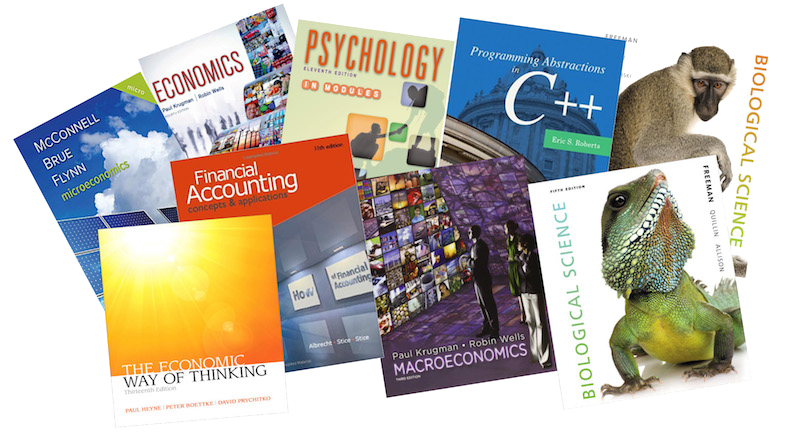
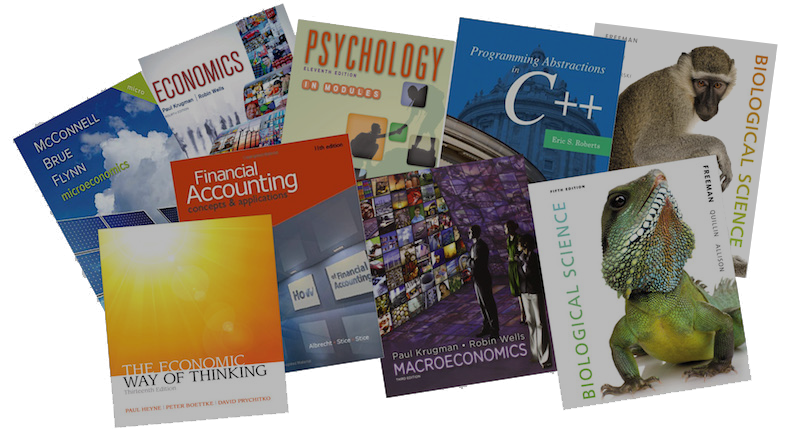
Squashed to one photo

diff --git a/_layouts/default.html b/_layouts/default.html
@@ -3,7 +3,7 @@
 <html>
 	<head>
 		<meta charset="utf-8">
-		<meta name="viewport" content="width=device-width, initial-scale=1">
+		<meta name="viewport" content="width=device-width">
 		<meta name="generator" content="Jekyll v{{ jekyll.version }}">
 
 		<link rel="stylesheet" href="//fonts.googleapis.com/css?family=Quattrocento|Vollkorn:400,400i,700,700i">
@@ -49,8 +49,7 @@
 		<section class="main">
 			{% if page.bookit %}
 			<div class="container discover">
-				<img class="discover-image" src="/uploads/bookit-books-2.png" alt="">
-				<a href="{{ site.baseurl }}/book-it/"><img class="discover-text" src="/uploads/discover-text.png" alt=""></a>
+				<a href="{{ site.baseurl }}/book-it/"><img class="discover-image" src="/uploads/bookit-books-dis.png" alt=""></a>
 			</div>
 			{% endif %}
 			<div class="container">

diff --git a/_site/index.html b/_site/index.html
@@ -3,7 +3,7 @@
 <html>
 	<head>
 		<meta charset="utf-8">
-		<meta name="viewport" content="width=device-width, initial-scale=1">
+		<meta name="viewport" content="width=device-width">
 		<meta name="generator" content="Jekyll v3.3.1">
 
 		<link rel="stylesheet" href="//fonts.googleapis.com/css?family=Quattrocento|Vollkorn:400,400i,700,700i">
@@ -62,8 +62,7 @@
 		<section class="main">
 			
 			<div class="container discover">
-				<img class="discover-image" src="/uploads/bookit-books-2.png" alt="">
-				<a href="/book-it/"><img class="discover-text" src="/uploads/discover-text.png" alt=""></a>
+				<a href="/book-it/"><img class="discover-image" src="/uploads/bookit-books-dis.png" alt=""></a>
 			</div>
 			
 			<div class="container">

diff --git a/_site/projects/index.html b/_site/projects/index.html
@@ -3,7 +3,7 @@
 <html>
 	<head>
 		<meta charset="utf-8">
-		<meta name="viewport" content="width=device-width, initial-scale=1">
+		<meta name="viewport" content="width=device-width">
 		<meta name="generator" content="Jekyll v3.3.1">
 
 		<link rel="stylesheet" href="//fonts.googleapis.com/css?family=Quattrocento|Vollkorn:400,400i,700,700i">
@@ -60,8 +60,7 @@
 		<section class="main">
 			
 			<div class="container discover">
-				<img class="discover-image" src="/uploads/bookit-books-2.png" alt="">
-				<a href="/book-it/"><img class="discover-text" src="/uploads/discover-text.png" alt=""></a>
+				<a href="/book-it/"><img class="discover-image" src="/uploads/bookit-books-dis.png" alt=""></a>
 			</div>
 			
 			<div class="container">

diff --git a/_site/404.html b/_site/404.html
@@ -3,7 +3,7 @@
 <html>
 	<head>
 		<meta charset="utf-8">
-		<meta name="viewport" content="width=device-width, initial-scale=1">
+		<meta name="viewport" content="width=device-width">
 		<meta name="generator" content="Jekyll v3.3.1">
 
 		<link rel="stylesheet" href="//fonts.googleapis.com/css?family=Quattrocento|Vollkorn:400,400i,700,700i">

diff --git a/_site/about/index.html b/_site/about/index.html
@@ -3,7 +3,7 @@
 <html>
 	<head>
 		<meta charset="utf-8">
-		<meta name="viewport" content="width=device-width, initial-scale=1">
+		<meta name="viewport" content="width=device-width">
 		<meta name="generator" content="Jekyll v3.3.1">
 
 		<link rel="stylesheet" href="//fonts.googleapis.com/css?family=Quattrocento|Vollkorn:400,400i,700,700i">

diff --git a/_site/book-it/index.html b/_site/book-it/index.html
@@ -3,7 +3,7 @@
 <html>
 	<head>
 		<meta charset="utf-8">
-		<meta name="viewport" content="width=device-width, initial-scale=1">
+		<meta name="viewport" content="width=device-width">
 		<meta name="generator" content="Jekyll v3.3.1">
 
 		<link rel="stylesheet" href="//fonts.googleapis.com/css?family=Quattrocento|Vollkorn:400,400i,700,700i">

diff --git a/_site/consulting/index.html b/_site/consulting/index.html
@@ -3,7 +3,7 @@
 <html>
 	<head>
 		<meta charset="utf-8">
-		<meta name="viewport" content="width=device-width, initial-scale=1">
+		<meta name="viewport" content="width=device-width">
 		<meta name="generator" content="Jekyll v3.3.1">
 
 		<link rel="stylesheet" href="//fonts.googleapis.com/css?family=Quattrocento|Vollkorn:400,400i,700,700i">

diff --git a/_site/contact-success/index.html b/_site/contact-success/index.html
@@ -3,7 +3,7 @@
 <html>
 	<head>
 		<meta charset="utf-8">
-		<meta name="viewport" content="width=device-width, initial-scale=1">
+		<meta name="viewport" content="width=device-width">
 		<meta name="generator" content="Jekyll v3.3.1">
 
 		<link rel="stylesheet" href="//fonts.googleapis.com/css?family=Quattrocento|Vollkorn:400,400i,700,700i">
